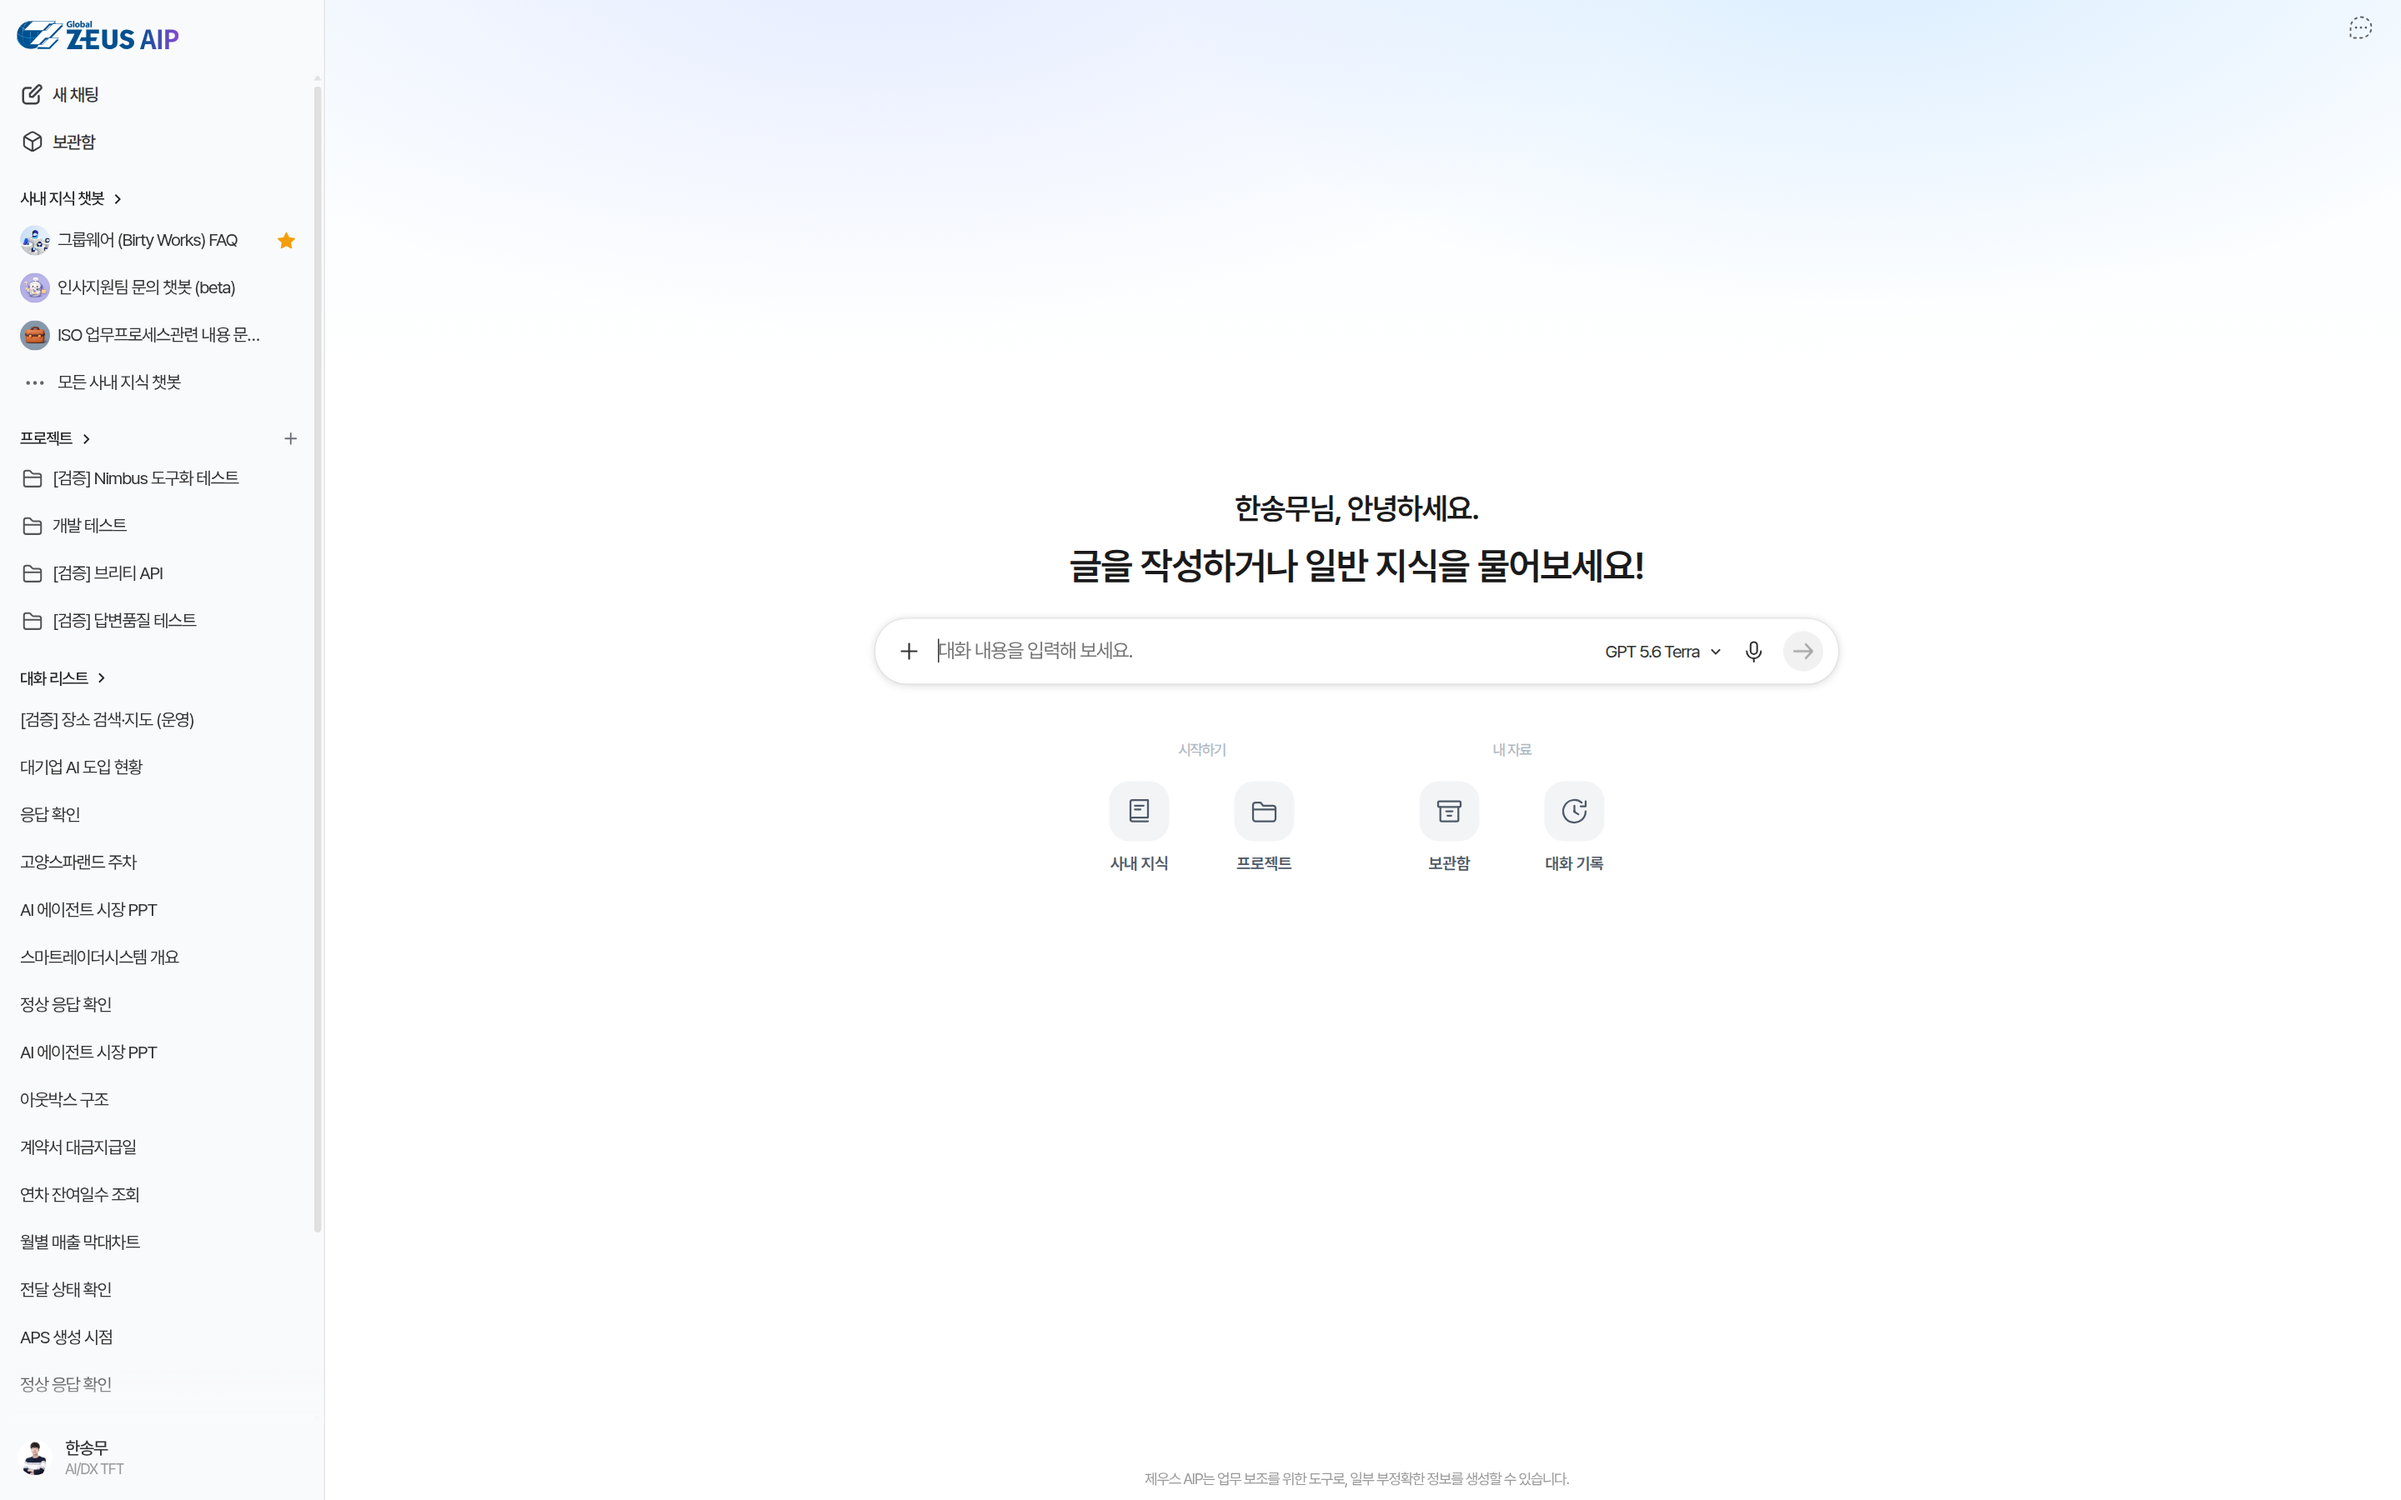
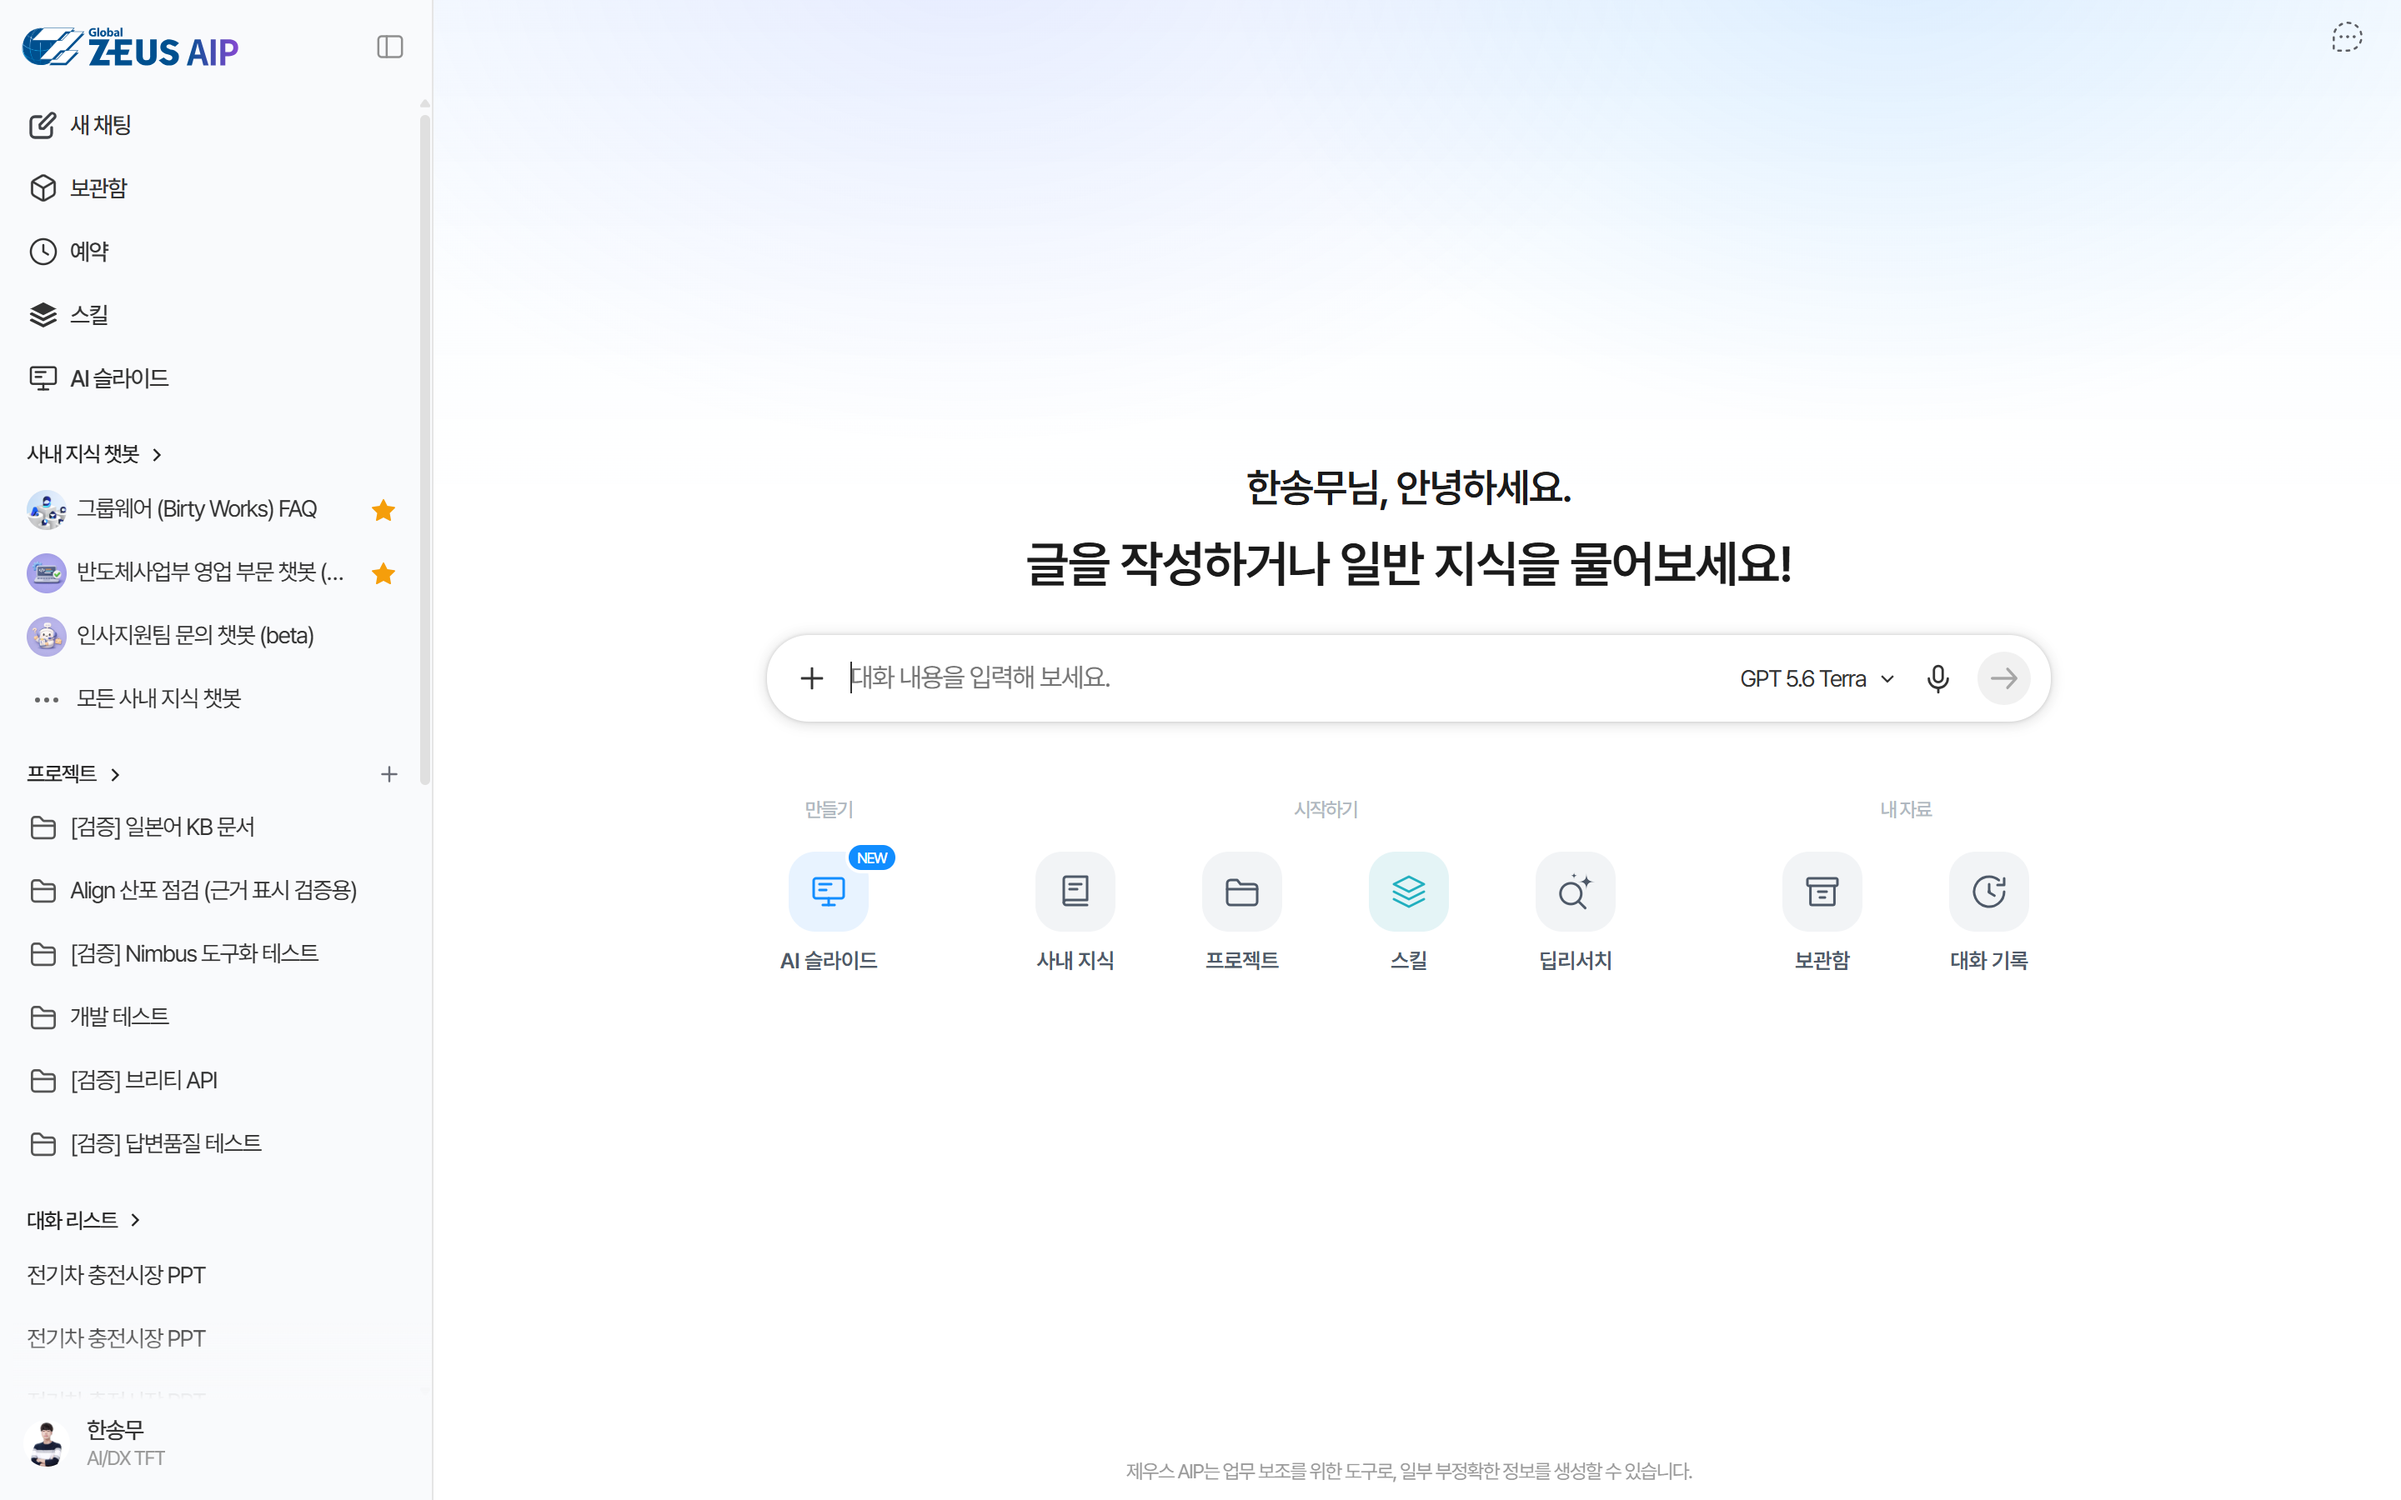
content(ai-platform): 메인 화면을 다시 찍고 AI 슬라이드를 개발 중으로 넣는다
메인 화면(118)을 localhost:3000 dev 에서 1440x900@2 로 다시 찍었다.
dev 라서 사이드바의 예약·스킬·AI 슬라이드와 홈의 AI 슬라이드·스킬 타일이
함께 보인다. 셋 다 운영에서는 꺼져 있다.

AI 슬라이드는 운영에 열지 않은 기능이라 제목에 개발 중을 붙인다.
갤러리(250)와 편집 화면(251)을 넣고, 레이어 연산 네 가지, 되돌리기가
에이전트 변경을 덮지 않는 것, 턴 단위 저장 지점, PPTX 를 PDF 로 바꿔
두 형식을 맞추는 내보내기를 적는다.

diff --git a/src/content/builds.ts b/src/content/builds.ts
@@ -370,6 +370,13 @@ export const builds: Build[] = [
       { type: 'image', src: '/projects/ai-platform/181.png', alt: 'HTML 웹페이지 생성 화면 - 채팅 옆 아티팩트 패널 렌더링', caption: 'HTML 리포트를 만든 대화' },
       { type: 'paragraph', text: '웹페이지도 만들고 끝내지 않습니다. 생성 직후 정적 규칙 검사와 헤드리스 렌더링 계측으로 요소 겹침이나 화면 넘침 같은 결함을 찾아 힌트로 에이전트에게 되돌리고, 에이전트는 전체를 다시 만드는 대신 결함이 있는 부분만 편집 도구로 고칩니다.' },
       { type: 'image', src: '/projects/ai-platform/133.png', alt: '보관함 화면', caption: '채팅에서 쓰고 만든 파일이 모이는 보관함' },
+      { type: 'heading', text: 'AI 슬라이드 (개발 중)' },
+      { type: 'image', src: '/projects/ai-platform/250.png', alt: 'AI 슬라이드 갤러리 - 내 프로젝트와 템플릿', caption: '내 프로젝트와 템플릿' },
+      { type: 'paragraph', text: '발표자료를 템플릿에서 시작해 대화로 고치고, PPTX와 PDF로 내보내는 전용 화면입니다. 아직 운영에는 열지 않았습니다.' },
+      { type: 'image', src: '/projects/ai-platform/251.png', alt: 'AI 슬라이드 편집 화면 - 왼쪽 AI 대화, 가운데 무대, 아래 장 목록', caption: '편집 화면' },
+      { type: 'paragraph', text: '덱은 장마다 레이어 목록을 가진 JSON 문서로 저장하고, 문서를 바꾸는 길은 속성 변경과 레이어 추가·삭제·순서 변경 네 가지 연산뿐입니다. 장 전체를 다시 그리지 않고 한 겹만 바꾸려면 겹마다 정체가 있어야 하고, 길이 좁아야 되돌리기와 충돌 판정을 한 곳에 둘 수 있기 때문입니다.' },
+      { type: 'paragraph', text: '되돌리기는 연산을 보내는 순간 그 자리의 옛 값을 떠 두었다가 같은 종류의 연산으로 다시 보냅니다. 그사이 에이전트가 같은 칸을 바꿨으면 옛 값으로 덮지 않습니다. 에이전트가 덱을 고친 턴마다 저장 지점을 남겨, 기록에서 이전 판으로 돌아갈 수 있습니다.' },
+      { type: 'paragraph', text: '내보내기는 PPTX를 한 번 그리고, 같은 호출에서 그 파일을 LibreOffice로 PDF로 바꿉니다. 한 번 그린 것을 두 형식으로 내기 때문에 두 파일의 내용이 어긋나지 않습니다.' },
       { type: 'heading', text: '코드 인터프리터' },
       { type: 'image', src: '/projects/ai-platform/163.png', alt: '코드 인터프리터 차트 생성 화면', caption: '코드 실행 결과 - 인터랙티브 차트' },
       { type: 'paragraph', text: '데이터 분석이나 차트 생성처럼 계산이 필요한 요청은 LLM이 직접 답하지 않고 Python 코드를 작성해 실행합니다. 실행 환경은 네트워크 차단, 읽기 전용 파일시스템, 리소스 제한을 건 격리 샌드박스를 별도 서비스로 두었고, 격리 항목을 자동 검증하는 스크립트를 배포 조건으로 삼았습니다.' },

diff --git a/src/content/imageDims.ts b/src/content/imageDims.ts
@@ -44,6 +44,8 @@ export const imageDims: Record<string, { w: number; h: number }> = {
   '/projects/ai-platform/197.png': { w: 3840, h: 2160 },
   '/projects/ai-platform/24.png': { w: 2880, h: 1800 },
   '/projects/ai-platform/249.png': { w: 2880, h: 1800 },
+  '/projects/ai-platform/250.png': { w: 2880, h: 1800 },
+  '/projects/ai-platform/251.png': { w: 2880, h: 1800 },
   '/projects/attendance/115.png': { w: 1600, h: 900 },
   '/projects/attendance/43.png': { w: 1895, h: 943 },
   '/projects/attendance/45.png': { w: 695, h: 944 },
